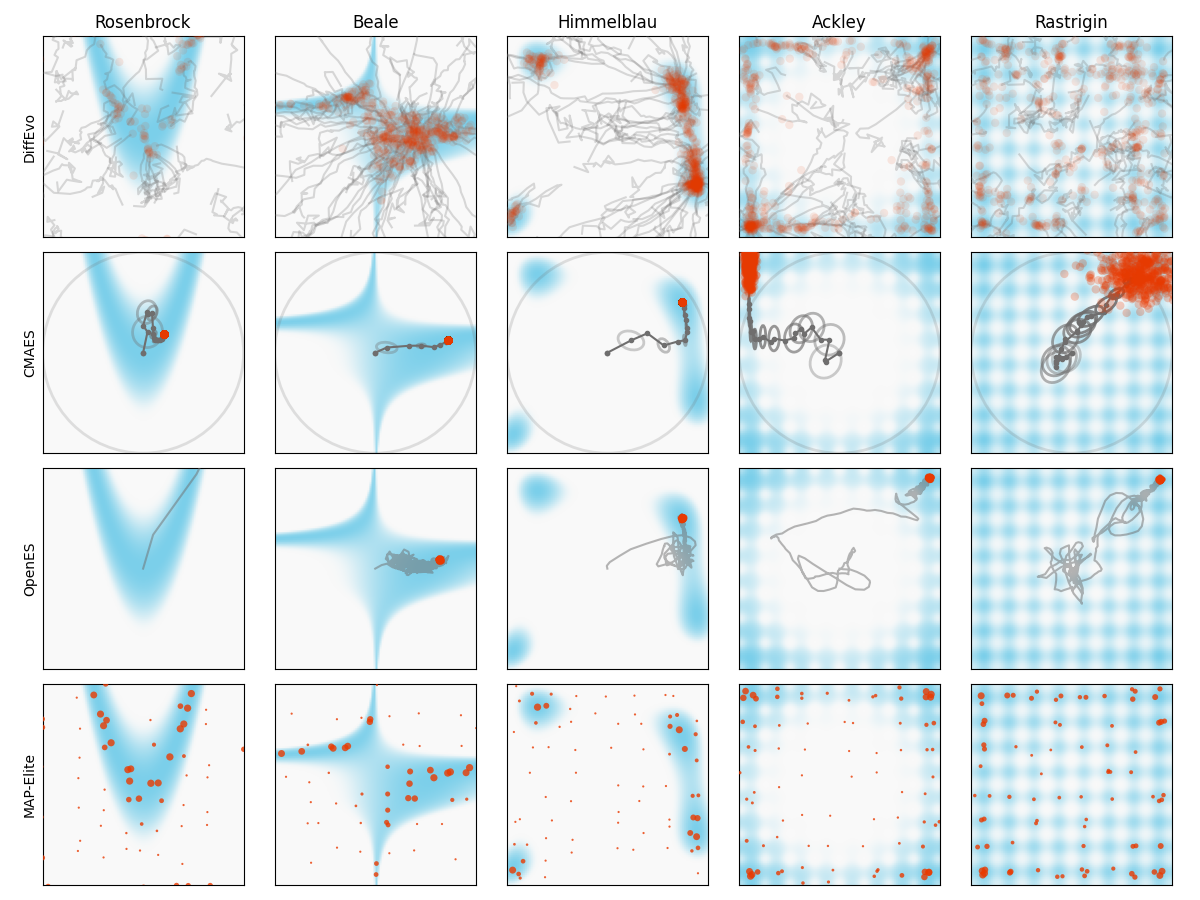
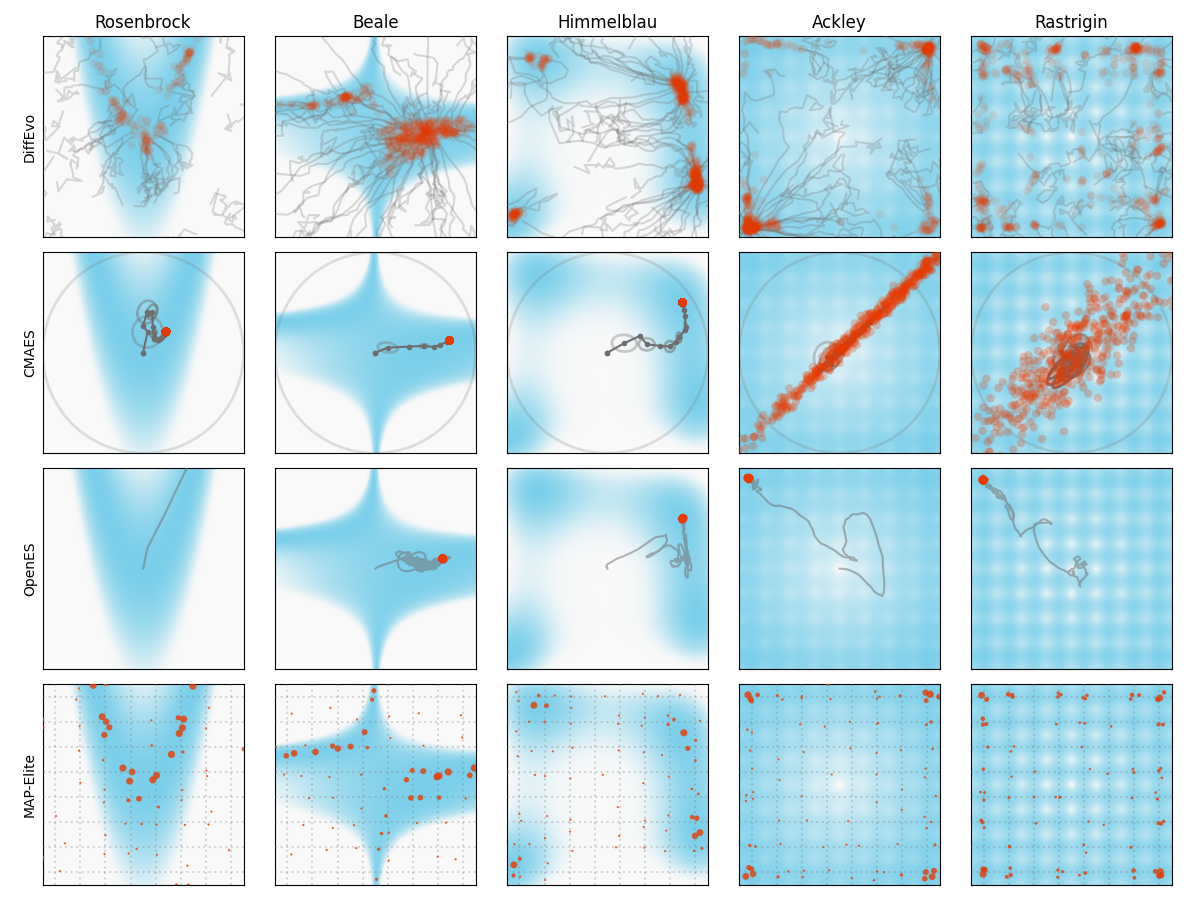
add gridlines for MAP-Elite

diff --git a/experiments/benchmarks/methods/map_elite.py b/experiments/benchmarks/methods/map_elite.py
@@ -45,7 +45,7 @@ def MapEliteExperiment(obj, init_num_pop=100, num_iter=256, sigma_mut=0.1, sigma
     fitnesses = torch.stack([r for p, r in maps.values()])
     return populations, maps, fitnesses
 
-def MAPElite_plot(obj, maps, ax=None):
+def MAPElite_plot(obj, maps, ax=None, grid_size=1):
     if ax is None:
         fig, ax = plt.subplots()
 
@@ -54,6 +54,17 @@ def MAPElite_plot(obj, maps, ax=None):
     rewards = torch.stack([r for p, r in maps.values()])
 
     plt.scatter(pop_elite[:, 0], pop_elite[:, 1], c=x0_color, alpha=0.8, marker='.', zorder=10, edgecolors='none', s=(rewards + 0.1)*100)
+    # add grid to reflect the feature_descriptor
+    # Add grid lines for feature descriptor visualization
+    grid_step = grid_size  # Since plot range is -4 to 4
+    
+    # Vertical grid lines
+    for x in np.arange(-4, 4.1, grid_step):
+        plt.axvline(x=x+0.5, color='gray', linestyle=':', alpha=0.3, zorder=999)
+    
+    # Horizontal grid lines 
+    for y in np.arange(-4, 4.1, grid_step):
+        plt.axhline(y=y+0.5, color='gray', linestyle=':', alpha=0.3, zorder=999)
 
     plt.xlim(-4, 4)
     plt.ylim(-4, 4)
@@ -93,7 +104,7 @@ def MAPElite_benchmark(objs, num_steps, row=0, grid_size=1, sigma_mut=0.5, total
         record[foo_name] = prepare_data(populations, arg, fitnesses, maps)
         if plot:
             ax = plt.subplot(total_row, total_col, i + 1 + row * total_col)
-            MAPElite_plot(obj, maps, ax=ax)
+            MAPElite_plot(obj, maps, ax=ax, grid_size=grid_size)
             if i == 0:
                 ax.set_ylabel(f"MAP-Elite")
     

diff --git a/experiments/benchmarks/plotbenchmark.py b/experiments/benchmarks/plotbenchmark.py
@@ -16,7 +16,7 @@ if __name__ == '__main__':
     num_benchmark = 4
     plt.figure(figsize=(12, 1 + num_benchmark * 2))
 
-    temperature = 0.5
+    temperature = 0.25
     # DiffEvo
     record = DiffEvo_benchmark(objs, num_steps=25, row=0, total_row=num_benchmark, plot=True, num_pop=512, temperature=temperature)
     torch.save(record, './data/diff_evo.pt')
